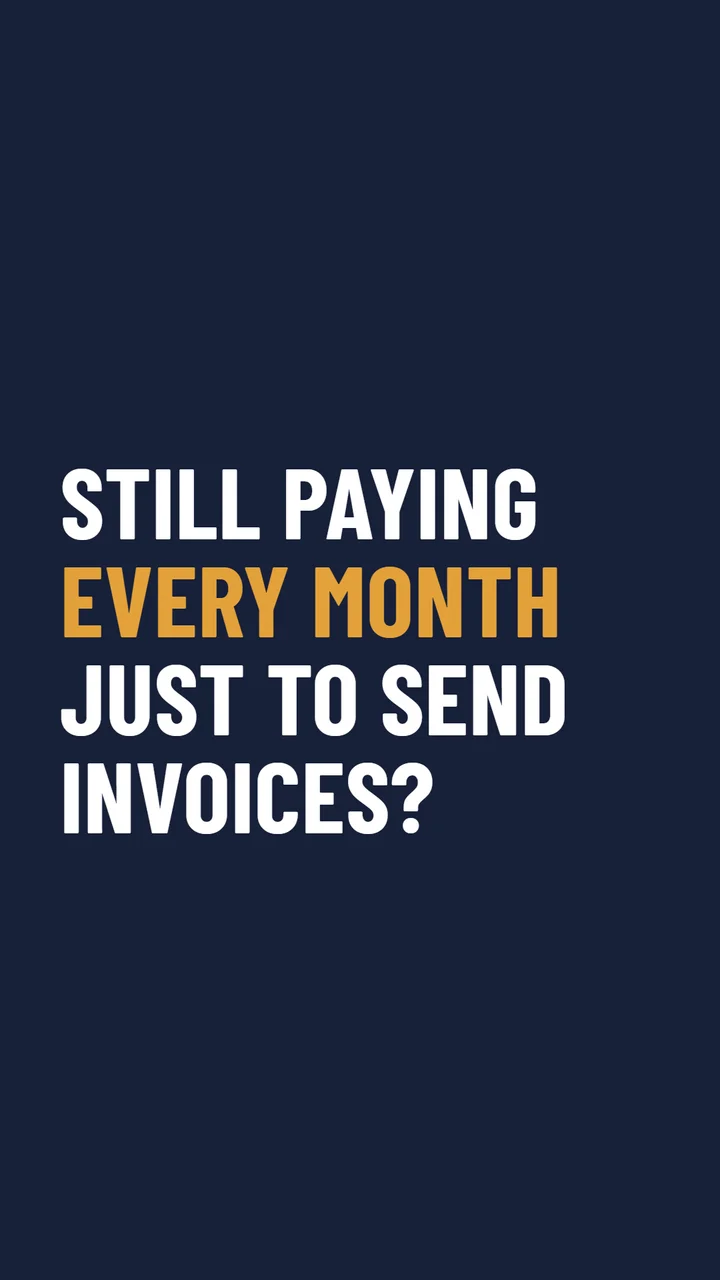
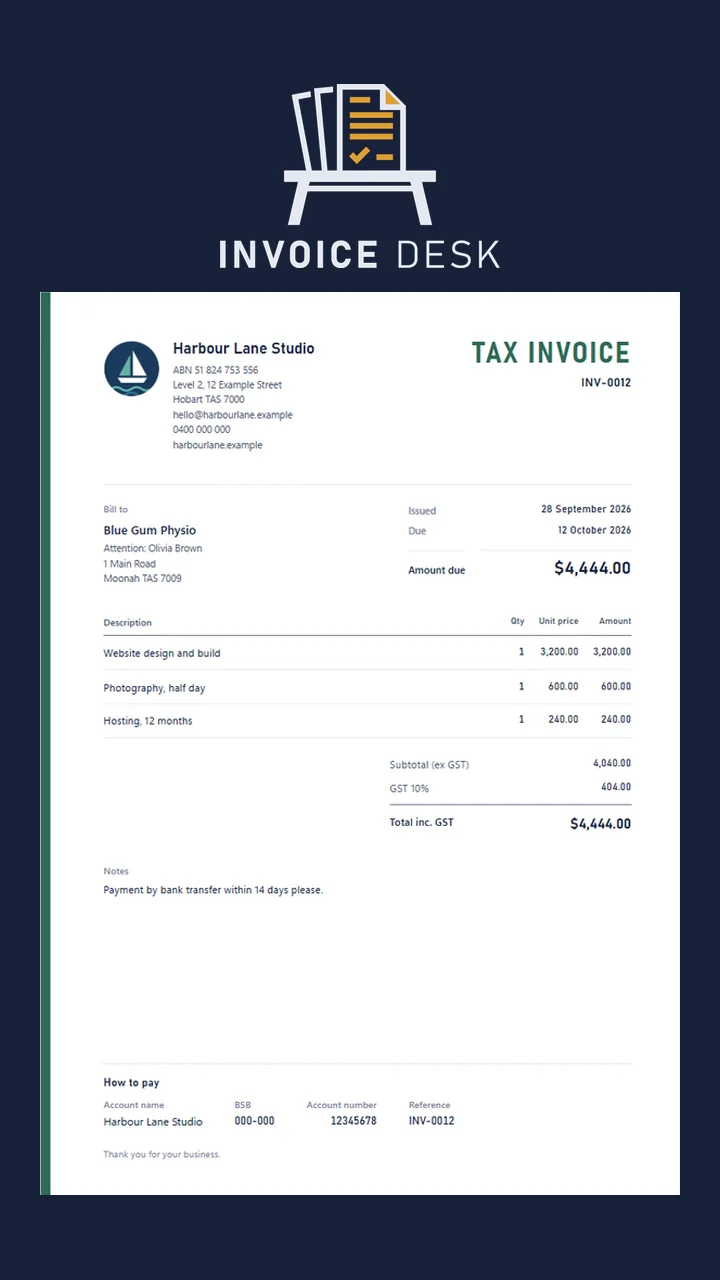
landing page captions, focus ring and plainer layout

diff --git a/promo/site/index.html b/promo/site/index.html
@@ -15,6 +15,8 @@
   --accent-soft: #E3EEE8;
   --amber: #E3A13A;
   --amber-ink: #3A2606;
+  --focus: var(--ink);
+  --stamp: #9A5B00;
   --shade: rgba(23, 32, 56, 0.10);
   --display: "Barlow Condensed", "Arial Narrow", "Roboto Condensed", sans-serif;
   --body: "Barlow", "Segoe UI", system-ui, sans-serif;
@@ -35,6 +37,8 @@
     --accent-soft: #17302A;
     --amber: #F0B64E;
     --amber-ink: #2A1B03;
+    --focus: var(--amber);
+    --stamp: var(--amber);
     --shade: rgba(0, 0, 0, 0.45);
     --logo-light: none;
     --logo-dark: block;
@@ -52,6 +56,8 @@
   --accent-soft: #17302A;
   --amber: #F0B64E;
   --amber-ink: #2A1B03;
+  --focus: var(--amber);
+  --stamp: var(--amber);
   --shade: rgba(0, 0, 0, 0.45);
   --logo-light: none;
   --logo-dark: block;
@@ -73,7 +79,10 @@ h2 { font-size: clamp(34px, 4.6vw, 54px); text-transform: uppercase; }
 h3 { font-size: 26px; text-transform: uppercase; letter-spacing: 0.02em; }
 p { margin: 0; }
 a { color: var(--accent); }
-a:focus-visible, .btn:focus-visible, summary:focus-visible { outline: 3px solid var(--amber); outline-offset: 3px; border-radius: 6px; }
+/* amber on light paper is only 2:1, so light mode rings in ink */
+a:focus-visible, .btn:focus-visible, summary:focus-visible, [tabindex]:focus-visible { outline: 3px solid var(--focus); outline-offset: 3px; border-radius: 6px; }
+.skip { position: absolute; left: 12px; top: -80px; z-index: 40; background: var(--ink); color: var(--paper); padding: 10px 16px; border-radius: 6px; font-weight: 600; text-decoration: none; }
+.skip:focus-visible { top: 12px; outline-color: var(--accent); }
 .eyebrow { font: 600 14px/1 var(--body); letter-spacing: 0.14em; text-transform: uppercase; color: var(--accent); }
 .lede { font-size: 21px; color: var(--muted); max-width: 34em; }
 .shot { display: block; width: 100%; height: auto; border-radius: 10px; border: 1px solid var(--line); box-shadow: 0 30px 60px -30px var(--shade), 0 2px 6px var(--shade); background: var(--surface); }
@@ -91,17 +100,20 @@ a:focus-visible, .btn:focus-visible, summary:focus-visible { outline: 3px solid 
 .btn { display: inline-flex; align-items: center; gap: 10px; padding: 14px 22px; border-radius: 8px; font: 600 18px/1 var(--body); text-decoration: none; border: 2px solid transparent; }
 .btn.primary { background: var(--accent); color: var(--accent-ink); }
 .btn.primary:hover { filter: brightness(1.08); }
-.btn.ghost { border-color: var(--line); color: var(--ink); }
+.btn.ghost { border-color: var(--muted); color: var(--ink); }
 .btn.ghost:hover { border-color: var(--accent); }
 .btn svg { width: 20px; height: 20px; }
 .actions { display: flex; flex-wrap: wrap; gap: 12px; }
 .fine { font-size: 15px; color: var(--muted); }
+.nowrap { white-space: nowrap; }
 
 /* hero */
 .hero { display: grid; grid-template-columns: minmax(0, 4fr) minmax(0, 6fr); gap: 48px; align-items: center; padding-block: 40px 72px; }
 .hero-copy { display: grid; gap: 26px; }
 .hero h1 .dim { color: var(--accent); display: block; }
 .hero-visual { position: relative; }
+.hero-visual .shot { max-width: 626px; margin-inline: auto; }
+.phone-note { display: none; font-weight: 600; }
 
 /* the price, as a tax invoice */
 .bill-section { display: grid; grid-template-columns: minmax(0, 1fr) minmax(0, 1fr); gap: 56px; align-items: center; padding-block: 72px; border-top: 1px solid var(--line); }
@@ -125,8 +137,8 @@ a:focus-visible, .btn:focus-visible, summary:focus-visible { outline: 3px solid 
 .bill .total td { border-top: 2px solid var(--ink); border-bottom: 0; padding-top: 12px; font-weight: 600; font-size: 18px; color: var(--ink); }
 .stamp {
   position: absolute; left: 44%; bottom: 20px; transform: rotate(-12deg);
-  font: 700 30px/1 var(--display); letter-spacing: 0.12em; color: var(--amber);
-  border: 3px solid var(--amber); border-radius: 6px; padding: 6px 12px 4px; opacity: 0.9;
+  font: 700 30px/1 var(--display); letter-spacing: 0.12em; color: var(--stamp);
+  border: 3px solid var(--stamp); border-radius: 6px; padding: 6px 12px 4px; opacity: 0.9;
 }
 
 /* features */
@@ -134,6 +146,10 @@ a:focus-visible, .btn:focus-visible, summary:focus-visible { outline: 3px solid 
 .feature.flip { grid-template-columns: minmax(0, 7fr) minmax(0, 5fr); }
 .feature.flip .feature-copy { order: 2; }
 .feature-copy { display: grid; gap: 18px; align-content: start; }
+.feature.wide { grid-template-columns: minmax(0, 1fr); gap: 40px; }
+.feature.wide .shot { order: -1; }
+.feature.wide .feature-copy { grid-template-columns: minmax(0, 5fr) minmax(0, 7fr); grid-template-rows: auto 1fr; column-gap: 56px; }
+.feature.wide .feature-copy h2 { grid-row: span 2; }
 .ticks { list-style: none; padding: 0; margin: 4px 0 0; display: grid; gap: 10px; }
 .ticks li { padding-left: 30px; position: relative; }
 .ticks li::before { content: ""; position: absolute; left: 2px; top: 0.5em; width: 14px; height: 8px; border-left: 3px solid var(--accent); border-bottom: 3px solid var(--accent); transform: rotate(-45deg); }
@@ -143,15 +159,15 @@ a:focus-visible, .btn:focus-visible, summary:focus-visible { outline: 3px solid 
 .bas b { display: block; font: 600 20px/1.1 var(--mono); color: var(--accent); }
 .bas span { font-size: 14px; color: var(--muted); line-height: 1.3; display: block; margin-top: 4px; }
 
-.phones { display: grid; grid-template-columns: repeat(3, minmax(0, 1fr)); gap: 18px; align-items: start; }
+.phones { display: grid; grid-template-columns: repeat(3, minmax(0, 1fr)); gap: 18px; align-items: start; border-radius: 22px; }
 .phones img { width: 100%; height: auto; border-radius: 22px; box-shadow: 0 24px 50px -26px var(--shade); border: 1px solid var(--line); }
 .phones img:nth-child(2) { margin-top: 36px; }
 
 /* also included */
 .more { padding-block: 72px; border-top: 1px solid var(--line); display: grid; gap: 36px; }
-.more-grid { display: grid; grid-template-columns: repeat(4, minmax(0, 1fr)); gap: 28px 32px; }
-.more-grid h3 { font-size: 22px; margin-bottom: 6px; }
-.more-grid p { font-size: 16px; color: var(--muted); line-height: 1.5; }
+.more-list { list-style: none; margin: 0; padding: 0; columns: 2; column-gap: 56px; }
+.more-list li { break-inside: avoid; padding-block: 14px; border-bottom: 1px solid var(--line); color: var(--muted); }
+.more-list strong { display: block; color: var(--ink); font-weight: 600; }
 
 /* questions */
 .faq { padding-block: 72px; border-top: 1px solid var(--line); display: grid; grid-template-columns: minmax(0, 4fr) minmax(0, 8fr); gap: 56px; }
@@ -177,18 +193,7 @@ a:focus-visible, .btn:focus-visible, summary:focus-visible { outline: 3px solid 
 
 /* sticky frosted header */
 .top-bar { position: sticky; top: env(safe-area-inset-top, 0px); z-index: 20; margin-inline: -20px; padding-inline: 20px; background: color-mix(in oklab, var(--paper) 82%, transparent); backdrop-filter: blur(14px) saturate(1.4); -webkit-backdrop-filter: blur(14px) saturate(1.4); border-bottom: 1px solid transparent; }
-.top .logo { transform-origin: left center; }
 
-/* reading progress along the top */
-.progress { position: fixed; inset: 0 0 auto 0; height: 3px; background: var(--amber); transform: scaleX(0); transform-origin: 0 50%; z-index: 30; pointer-events: none; }
-
-/* back to top, shown once you've scrolled */
-html { container-type: scroll-state; }
-.to-top { position: fixed; right: 20px; bottom: calc(20px + env(safe-area-inset-bottom, 0px)); z-index: 25; width: 52px; height: 52px; border-radius: 50%; display: grid; place-items: center; background: var(--ink); color: var(--paper); text-decoration: none; box-shadow: 0 10px 30px -10px var(--shade); visibility: hidden; opacity: 0; translate: 0 16px; transition: visibility .3s, opacity .3s ease, translate .3s ease, background .2s; }
-.to-top:hover { background: var(--accent); color: var(--accent-ink); }
-.to-top svg { width: 22px; height: 22px; }
-@container scroll-state(scrollable: top) { .to-top { visibility: visible; opacity: 1; translate: 0 0; } }
-.scrolled .to-top { visibility: visible; opacity: 1; translate: 0 0; }
 [id] { scroll-margin-top: 96px; }
 #top { scroll-margin-top: 240px; }
 
@@ -206,21 +211,17 @@ html { container-type: scroll-state; }
   .btn:hover { translate: 0 -2px; }
 }
 html { scroll-behavior: smooth; }
-@media (prefers-reduced-motion: reduce) { html { scroll-behavior: auto; } .to-top { transition: none; } }
+@media (prefers-reduced-motion: reduce) { html { scroll-behavior: auto; } }
 
 /* scroll-driven effects, decorative so no fallback */
 @media (prefers-reduced-motion: no-preference) {
   @supports (animation-timeline: scroll()) {
-    @keyframes fill-up { to { transform: scaleX(1); } }
-    .progress { animation: fill-up auto linear both; animation-timeline: scroll(root); }
     @keyframes settle-bar { to { border-bottom-color: var(--line); box-shadow: 0 8px 24px -18px var(--shade); } }
     .top-bar { animation: settle-bar linear both; animation-timeline: scroll(root); animation-range: 0 120px; }
-    @keyframes shrink-logo { to { scale: 0.78; } }
-    .top .logo { animation: shrink-logo linear both; animation-timeline: scroll(root); animation-range: 0 120px; }
   }
   @supports ((animation-timeline: view()) and (animation-range: entry)) {
-    @keyframes rise-in { from { opacity: 0.15; translate: 0 48px; scale: 0.97; } }
-    .feature > .shot, .feature .phones, .countries .ledger, .more-grid > div, .watch .player, .bas > div {
+    @keyframes rise-in { from { opacity: 0.4; translate: 0 20px; } }
+    .feature > .shot, .feature .phones, .countries .ledger, .watch .player {
       animation: rise-in auto cubic-bezier(.2,.7,.2,1) backwards;
       animation-timeline: view();
       animation-range: entry 0% entry 90%;
@@ -236,7 +237,8 @@ html { scroll-behavior: smooth; }
 .closer h2 { color: var(--paper); }
 .closer p { color: color-mix(in oklab, var(--paper) 72%, var(--ink)); margin-top: 12px; }
 .closer .btn.primary { background: var(--amber); color: var(--amber-ink); }
-.closer .btn.ghost { color: var(--paper); border-color: color-mix(in oklab, var(--paper) 35%, var(--ink)); }
+.closer .btn.ghost { color: var(--paper); border-color: color-mix(in oklab, var(--paper) 60%, var(--ink)); }
+.closer .btn:focus-visible { outline-color: var(--paper); }
 
 footer { padding-block: 0 48px; display: flex; flex-wrap: wrap; justify-content: space-between; gap: 12px; font-size: 15px; color: var(--muted); }
 
@@ -244,7 +246,8 @@ footer { padding-block: 0 48px; display: flex; flex-wrap: wrap; justify-content:
   .hero, .bill-section, .feature, .faq, .closer, .countries, .watch { grid-template-columns: minmax(0, 1fr); gap: 32px; }
   .feature.flip { grid-template-columns: minmax(0, 1fr); }
   .feature.flip .feature-copy { order: 0; }
-  .more-grid { grid-template-columns: repeat(2, minmax(0, 1fr)); }
+  .feature.wide .feature-copy { grid-template-columns: minmax(0, 1fr); }
+  .feature.wide .feature-copy h2 { grid-row: auto; }
   .hero { padding-top: 16px; }
   .bill { transform: none; }
   .closer { padding: 40px 28px; }
@@ -252,14 +255,23 @@ footer { padding-block: 0 48px; display: flex; flex-wrap: wrap; justify-content:
 @media (max-width: 560px) {
   body { font-size: 17px; }
   .top nav { display: none; }
-  .more-grid { grid-template-columns: minmax(0, 1fr); }
+  .more-list { columns: 1; }
+  .phone-note { display: block; }
+  .ledger table { min-width: 0; }
+  .ledger thead { position: absolute; width: 1px; height: 1px; overflow: hidden; clip-path: inset(50%); }
+  .ledger tr { display: grid; gap: 4px; padding: 14px 16px; border-bottom: 1px solid var(--line); }
+  .ledger tr:last-child { border-bottom: 0; }
+  .ledger td { display: block; padding: 0; border: 0; }
+  .ledger td[data-label]::before { content: attr(data-label) ": "; color: var(--muted); }
   .bill { padding: 24px 20px; }
   .bill-head { flex-direction: column; }
   .bill-meta { text-align: left; }
   .stamp { font-size: 22px; left: 40%; bottom: 16px; }
   .bas { grid-template-columns: minmax(0, 1fr); }
-  .phones { gap: 10px; }
-  .phones img { border-radius: 14px; }
+  /* one phone at a time, big enough to read */
+  .phones { display: flex; gap: 14px; overflow-x: auto; scroll-snap-type: x mandatory; padding: 4px 4px 16px; margin-inline: -4px; }
+  .phones img { flex: 0 0 74%; width: 74%; min-width: 0; scroll-snap-align: center; border-radius: 18px; }
+  .phones img:nth-child(2) { margin-top: 0; }
 }
 @media (prefers-reduced-motion: no-preference) {
   .hero-visual .shot { animation: rise 0.9s cubic-bezier(.2,.7,.2,1) both; }
@@ -267,7 +279,7 @@ footer { padding-block: 0 48px; display: flex; flex-wrap: wrap; justify-content:
 }
 </style>
 
-<div class="progress" aria-hidden="true"></div>
+<a class="skip" href="#top">Skip to content</a>
 <div class="top-bar"><div class="wrap"><header class="top">
     <a href="#top" aria-label="InvoiceDesk home">
       <img class="logo light" src="img/logo.png" alt="InvoiceDesk" width="480" height="315">
@@ -289,7 +301,8 @@ footer { padding-block: 0 48px; display: flex; flex-wrap: wrap; justify-content:
       <div class="hero-copy">
         <span class="eyebrow">For Australian sole traders</span>
         <h1>Tax invoices, GST and your BAS. <span class="dim">No monthly fee.</span></h1>
-        <p class="lede">InvoiceDesk is a free invoicing app for tradies, freelancers and contractors. It runs on your own computer, so your books stay with you.</p>
+        <p class="lede">InvoiceDesk is a free invoicing app for tradies and freelancers. It runs on your own computer, so your books stay with you.</p>
+        <p class="phone-note">InvoiceDesk runs on your computer. Open this page on it to download.</p>
         <div class="actions">
           <a class="btn primary" href="https://github.com/tdh1985/invoicedesk/releases/latest/download/InvoiceDesk.exe">
             <svg viewBox="0 0 24 24" fill="none" stroke="currentColor" stroke-width="2.4" stroke-linecap="round" stroke-linejoin="round" aria-hidden="true"><path d="M12 4v11m0 0l-4.5-4.5M12 15l4.5-4.5M5 20h14"/></svg>
@@ -300,13 +313,12 @@ footer { padding-block: 0 48px; display: flex; flex-wrap: wrap; justify-content:
         <p class="fine">Free and open source. One file, nothing to install. Also set up for <a href="#countries">NZ, the UK, Canada and the US</a>.</p>
       </div>
       <div class="hero-visual">
-        <img class="shot" src="img/invoice-editor.webp" width="1800" height="1090" alt="The invoice editor with a live preview of a tax invoice showing ABN, GST and a total of $4,444.00">
+        <img class="shot" src="img/invoice-preview.webp" width="626" height="626" alt="A tax invoice made in InvoiceDesk for Blue Gum Physio, with the ABN, three lines of work, GST of $404.00 and a total of $4,444.00">
       </div>
     </section>
 
     <section class="bill-section" id="price">
       <div class="bill-copy">
-        <span class="eyebrow">The price</span>
         <h2>Here's our invoice to you</h2>
         <p class="lede">No subscription, no per-invoice fee and no limit on clients. The code is MIT licensed, so it stays free.</p>
       </div>
@@ -334,14 +346,14 @@ footer { padding-block: 0 48px; display: flex; flex-wrap: wrap; justify-content:
 
     <section class="watch" id="watch">
       <div class="watch-copy">
-        <span class="eyebrow">Watch</span>
         <h2>See it in 30 seconds</h2>
-        <p class="lede">Tax invoices, receipts from your phone and your BAS figures, start to finish.</p>
-        <p class="fine">Press play for sound.</p>
+        <p class="lede">What it does, from a tax invoice to your BAS figures.</p>
+        <p class="fine">It has a voiceover, and captions are on so you can watch it with the sound off.</p>
       </div>
       <div class="player">
-        <video controls playsinline preload="none" poster="img/promo-poster.webp" width="720" height="1280">
+        <video controls playsinline preload="metadata" poster="img/promo-poster.webp" width="720" height="1280">
           <source src="img/promo.mp4" type="video/mp4">
+          <track kind="captions" srclang="en-AU" label="English" src="img/promo.vtt" default>
           <a href="img/promo.mp4">Watch the InvoiceDesk video</a>
         </video>
       </div>
@@ -361,10 +373,9 @@ footer { padding-block: 0 48px; display: flex; flex-wrap: wrap; justify-content:
       <img class="shot" src="img/dashboard.webp" width="1470" height="1295" alt="The dashboard showing $2,992.50 owed by clients, two invoices stamped late on a rail of due dates, and September's cash book">
     </section>
 
-    <section class="feature flip">
+    <section class="feature wide">
       <div class="feature-copy">
-        <span class="eyebrow">Receipts</span>
-        <h2>Drop in a receipt. The expense fills itself in.</h2>
+        <h2>Drop in a receipt and it fills in the expense for you</h2>
         <p>Drag a photo or PDF of a receipt onto the Money page. InvoiceDesk reads the supplier, date, amount and GST, and highlights what it filled so you can check it.</p>
         <p class="fine">Uses the text reader built into Windows, so the receipt never leaves your computer.</p>
       </div>
@@ -373,10 +384,9 @@ footer { padding-block: 0 48px; display: flex; flex-wrap: wrap; justify-content:
 
     <section class="feature">
       <div class="feature-copy">
-        <span class="eyebrow">Tax time</span>
         <h2>Your BAS figures, ready when the quarter ends</h2>
         <p>Reports work out the boxes you fill in on your BAS for any quarter or financial year, plus a profit and loss. Save them as PDF or CSV for your accountant.</p>
-        <div class="bas" aria-label="BAS boxes InvoiceDesk works out">
+        <div class="bas">
           <div><b>G1</b><span>Total sales, including GST</span></div>
           <div><b>1A</b><span>GST on sales</span></div>
           <div><b>1B</b><span>GST on purchases</span></div>
@@ -390,17 +400,17 @@ footer { padding-block: 0 48px; display: flex; flex-wrap: wrap; justify-content:
         <span class="eyebrow">Not in Australia?</span>
         <h2>Also set up for four more countries</h2>
         <p>Pick your country and the tax, tax number, bank details, financial year and tax return follow. Clients can be anywhere in the world, billed in their own currency.</p>
-        <p class="currencies" aria-label="Currencies you can bill in">AUD NZD GBP CAD USD EUR SGD HKD CHF SEK NOK DKK ZAR</p>
+        <p class="currencies">AUD NZD GBP CAD USD EUR SGD HKD CHF SEK NOK DKK ZAR</p>
       </div>
       <div class="ledger">
         <table>
           <thead><tr><th>Country</th><th>Tax</th><th>Tax return</th></tr></thead>
           <tbody>
-            <tr><td><span class="code">AU</span>Australia</td><td>GST 10%, ABN</td><td>BAS worksheet (G1, 1A, 1B)</td></tr>
-            <tr><td><span class="code">NZ</span>New Zealand</td><td>GST 15%</td><td>GST return (boxes 5 to 15)</td></tr>
-            <tr><td><span class="code">UK</span>United Kingdom</td><td>VAT at 20%, 5%, 0% or exempt</td><td>VAT return (boxes 1 to 9)</td></tr>
-            <tr><td><span class="code">CA</span>Canada</td><td>GST or HST by province</td><td>GST/HST return</td></tr>
-            <tr><td><span class="code">US</span>United States</td><td>Sales tax at your rate</td><td>Sales tax summary</td></tr>
+            <tr><td><span class="code">AU</span>Australia</td><td data-label="Tax">GST 10%, ABN</td><td data-label="Tax return">BAS worksheet (G1, 1A, 1B)</td></tr>
+            <tr><td><span class="code">NZ</span>New Zealand</td><td data-label="Tax">GST 15%</td><td data-label="Tax return">GST return (boxes 5 to 15)</td></tr>
+            <tr><td><span class="code">UK</span>United Kingdom</td><td data-label="Tax">VAT at 20%, 5%, 0% or exempt</td><td data-label="Tax return">VAT return (boxes 1 to 9)</td></tr>
+            <tr><td><span class="code">CA</span>Canada</td><td data-label="Tax">GST or HST by province</td><td data-label="Tax return">GST/HST return</td></tr>
+            <tr><td><span class="code">US</span>United States</td><td data-label="Tax">Sales tax at your rate</td><td data-label="Tax return">Sales tax summary</td></tr>
           </tbody>
         </table>
       </div>
@@ -411,9 +421,10 @@ footer { padding-block: 0 48px; display: flex; flex-wrap: wrap; justify-content:
         <span class="tag">New · free pilot</span>
         <h2>Snap receipts on site with your phone</h2>
         <p>The optional phone app sends receipt photos and quick invoices back to your computer, and shows who still owes you. It works offline and catches up when you have signal.</p>
+        <p>To set it up, sign in under Settings &gt; Phone in InvoiceDesk on your computer. Then open <a class="nowrap" href="https://invoicedesk-phone.vercel.app">invoicedesk-phone.vercel.app</a> on your phone, sign in with the same email and add it to your home screen.</p>
         <p class="fine">Works in the browser on iPhone and Android. Your computer stays the only full copy of your books.</p>
       </div>
-      <div class="phones">
+      <div class="phones" tabindex="0" role="region" aria-label="Phone app screens">
         <img src="img/phone-owes.webp" width="527" height="1136" alt="Phone screen listing who owes you: $2,992.50 owed, $2,233.50 overdue">
         <img src="img/phone-snap.webp" width="525" height="1136" alt="Phone screen with a photo of a fuel receipt and a note">
         <img src="img/phone-quick.webp" width="528" height="1136" alt="Phone screen starting a quick invoice for Salt and Pine Bakery">
@@ -422,16 +433,16 @@ footer { padding-block: 0 48px; display: flex; flex-wrap: wrap; justify-content:
 
     <section class="more">
       <h2>Also in the box</h2>
-      <div class="more-grid">
-        <div><h3>Statements</h3><p>Send a client everything they owe, aged into 30, 60 and 90 days.</p></div>
-        <div><h3>Late payer radar</h3><p>See how late each client usually pays, and what's likely to land in the next 30 days.</p></div>
-        <div><h3>Remembers for you</h3><p>Lines suggest what you last charged that client. Expenses pick last time's category.</p></div>
-        <div><h3>Three layouts</h3><p>Classic, modern or minimal, with your logo and colour.</p></div>
-        <div><h3>CSV export</h3><p>Hand your accountant invoices or money in and out as a spreadsheet.</p></div>
-        <div><h3>Search everything</h3><p>Ctrl+K finds any client or invoice and runs commands.</p></div>
-        <div><h3>Light and dark</h3><p>Follows your Windows theme, or pick one.</p></div>
-        <div><h3>Backed up your way</h3><p>Keep your data in a OneDrive, Dropbox or Google Drive folder.</p></div>
-      </div>
+      <ul class="more-list">
+        <li><strong>Statements</strong>Send a client everything they owe, aged into 30, 60 and 90 days.</li>
+        <li><strong>How late each client pays</strong>See each client's usual delay, and what's likely to land in the next 30 days.</li>
+        <li><strong>Remembers what you charged last time</strong>Lines suggest that client's last price. Expenses pick last time's category.</li>
+        <li><strong>Invoice layouts</strong>Classic, modern or minimal, with your logo and colour.</li>
+        <li><strong>CSV export</strong>Hand your accountant invoices or money in and out as a spreadsheet.</li>
+        <li><strong>Search with Ctrl+K</strong>Find any client or invoice, or run a command.</li>
+        <li><strong>Light and dark themes</strong>Follows your Windows theme, or pick one.</li>
+        <li><strong>Back up to your cloud drive</strong>Keep your data in a OneDrive, Dropbox or Google Drive folder.</li>
+      </ul>
     </section>
 
     <section class="faq" id="questions">
@@ -451,7 +462,7 @@ footer { padding-block: 0 48px; display: flex; flex-wrap: wrap; justify-content:
         </details>
         <details>
           <summary>Do I need the phone app?</summary>
-          <p>No. It's an optional extra and the desktop app does everything on its own. The phone app is free while it's a pilot.</p>
+          <p>No. It's an optional extra and the desktop app does everything on its own. If you want it, sign in under Settings &gt; Phone on your computer, then open <a class="nowrap" href="https://invoicedesk-phone.vercel.app">invoicedesk-phone.vercel.app</a> on your phone and sign in with the same email. It's free while it's a pilot.</p>
         </details>
         <details>
           <summary>Does it work on a Mac?</summary>
@@ -482,15 +493,3 @@ footer { padding-block: 0 48px; display: flex; flex-wrap: wrap; justify-content:
   </footer>
 </div>
 
-<a class="to-top" href="#top" aria-label="Back to top">
-  <svg viewBox="0 0 24 24" fill="none" stroke="currentColor" stroke-width="2.6" stroke-linecap="round" stroke-linejoin="round" aria-hidden="true"><path d="M12 19V6m0 0l-6 6m6-6l6 6"/></svg>
-</a>
-<script>
-// safari and firefox can't query scroll state yet
-if (!CSS.supports('container-type', 'scroll-state') && 'IntersectionObserver' in window) {
-  const mark = document.createElement('div');
-  mark.style.cssText = 'position:absolute;top:400px;height:1px;width:1px';
-  document.body.prepend(mark);
-  new IntersectionObserver(([e]) => document.documentElement.classList.toggle('scrolled', !e.isIntersecting && e.boundingClientRect.top < 0)).observe(mark);
-}
-</script>

diff --git a/promo/build_pages.py b/promo/build_pages.py
@@ -10,12 +10,12 @@ meta = ('<link rel="icon" href="img/logo.png">\n'
         '<meta property="og:description" content="Free invoicing for sole traders. Tax invoices, GST and your BAS, with no monthly fee.">\n'
         '<meta property="og:image" content="https://tdh1985.github.io/invoicedesk/img/og.png">\n'
         '<meta name="twitter:card" content="summary_large_image">\n')
-doc = ('<!doctype html>\n<html lang="en">\n<head>\n<meta charset="utf-8">\n'
+doc = ('<!doctype html>\n<html lang="en-AU">\n<head>\n<meta charset="utf-8">\n'
        '<meta name="viewport" content="width=device-width, initial-scale=1, viewport-fit=cover">\n'
        + head + meta + '<style>' + rest.replace('</style>\n', '</style>\n</head>\n<body>\n', 1) + '</body>\n</html>\n')
 (out / 'index.html').write_text(doc, encoding='utf-8', newline='\n')
 (out / 'img').mkdir(exist_ok=True)
 for f in (site / 'img').iterdir():
-    if f.suffix in ('.webp', '.mp4') or f.name.startswith('logo'):
+    if f.suffix in ('.webp', '.mp4', '.vtt') or f.name.startswith('logo'):
         shutil.copy2(f, out / 'img' / f.name)
 print('built', out)
